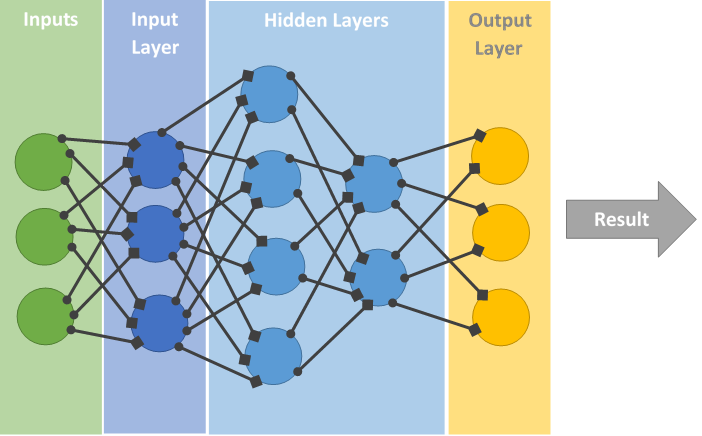
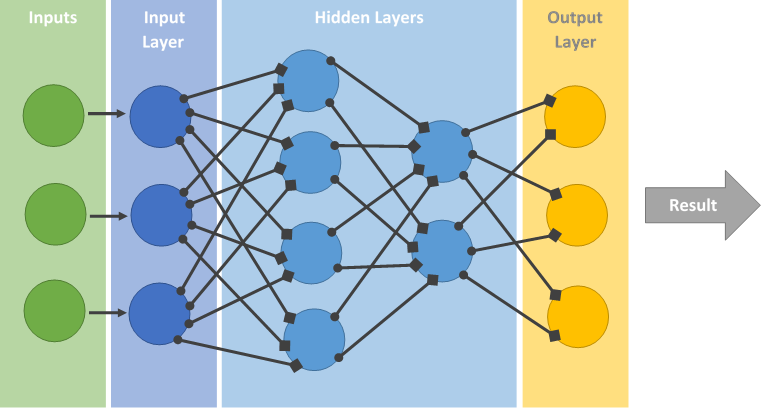
fix: Update representation of a neural network

diff --git a/_posts/2018-11-04-finding-flowers.html b/_posts/2018-11-04-finding-flowers.html
@@ -54,23 +54,33 @@ title: Finding Flowers with Neural Networks
         So here's how it works.
         In this case we can say that we have three details about which we have information on for every data point we have.
         These are out inputs and will be fed into the input layer.
-        Although in this model we have the same number of nodes for the input layer as we do pieces of information, this does _not_ need to be the case.
-        It's possible to have as many nodes as we'd like for the input layer, we just need to have each piece of information feeding into those inputs.
+        To be honest, the input layer, as I've described it here, is not like any other layer in the network.
+        It's only job is to collect the inputs.
+        It will always have the same number of nodes as there are data inputs.
+        Normally there are a whole bunch of other things that happen before the data gets passed into a layer, but I'll describe that below.
     </p>
     <p>
         When we start out, we will weight each detail as it is fed into the node.
         Usually, these are just random (but probably close to zero), and we can talk about them existing on the lines, or the edges.
         There is a different weight for each input for each node in the input layer.
     </p>
+
+    <h4>The Hidden Layers</h4>
     <p>
-        At the input layer node we will multiply the input values by the weights on the edges and then do a fancy transformation (called an activation) of the numbers that will convert them (typically) to their equivalent in a range of:
+        After the gathering of the input layer, we then feed the data through the internal network.
+        Each of these is called a hidden layer.
+        When data is passed into a node in the hidden layer, it is weighted (multiplied) by a certain value.
+        Usually, these are just random (but probably close to zero), and we can talk about them existing on the lines, or the edges.
+        There is a different weight for each type of data received by each node.
+    </p>
+    <p>
+        At the node we will multiply the values by the weights on the edges and then do a fancy transformation (called an activation) of the numbers that will convert them (typically) to their equivalent in a range of:
         <ul>
             <li>Between 0 and 1 (sigma/sigmoid)</li>
             <li>Between -1 and 1(tanh), or </li>
             <li>Between 0 and all positive numbers (ReLU)</li>
         </ul>
     </p>
-    <h4>The Hidden Layers</h4>
     <p>
         We will then take these newly calculated values and do the same thing.
         We'll feed the information into the nodes of the next layer (in our case a hidden layer with four nodes), again, multiplying them by random edge weights, and converting them to the new scale.
